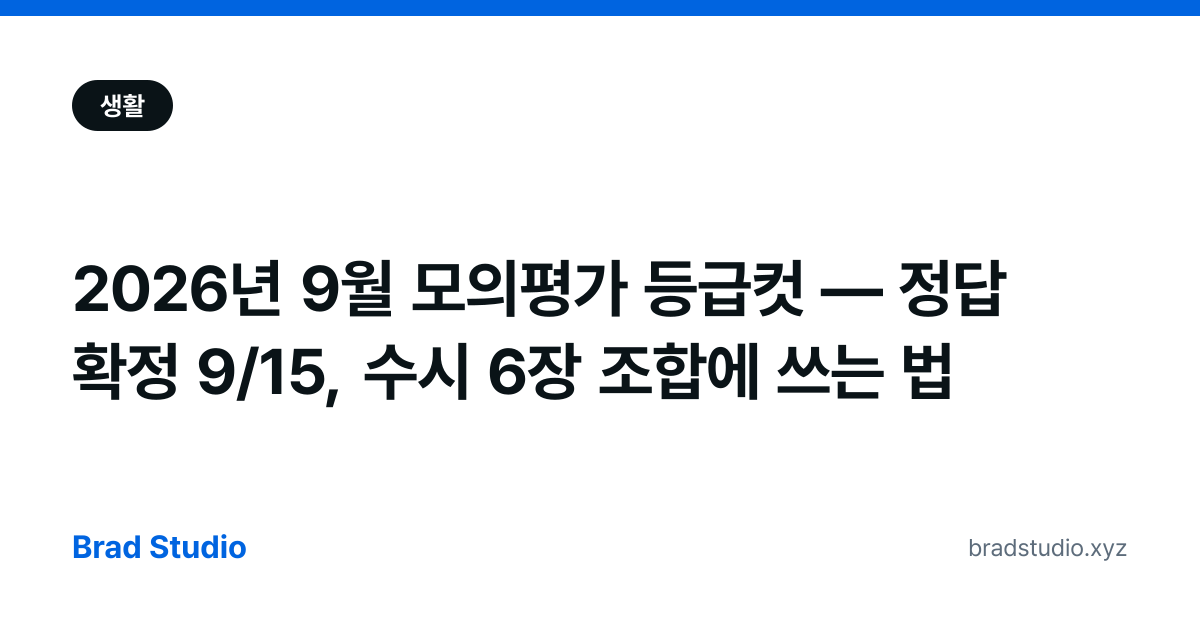
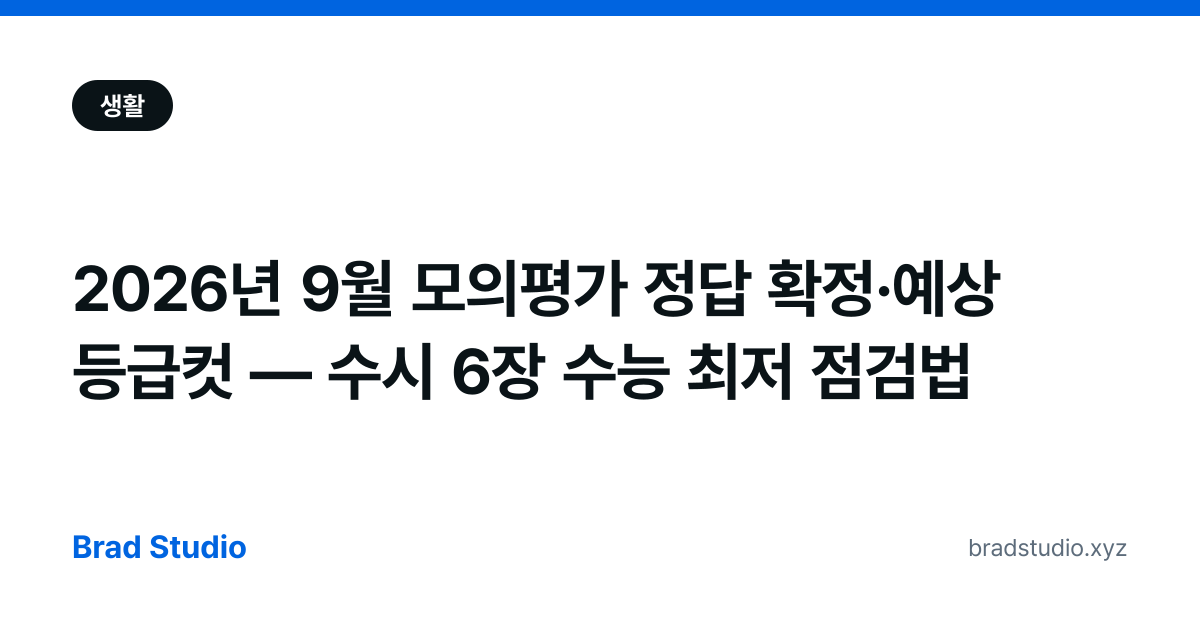
content: 9모 정답 확정·예상 등급컷 + 9월 FOMC 전망 발행
- bs-20260908-002: 정답 확정(변경 0건) 반영, 등급컷 추정치 명시, 9/29 갱신 예고
- bs-20260915-001: Warsh 의장·발표시각 KST 9/17(목) 03:00 검증, 발표 후 갱신 예고

Changed region(s): [[0.0617, 0.5429, 0.8325, 0.6333], [0.5242, 0.3921, 0.8325, 0.5127]]

diff --git a/src/content/blog/september-mock-exam-grade-cut-2026.md b/src/content/blog/september-mock-exam-grade-cut-2026.md
@@ -1,10 +1,10 @@
 ---
 contentId: "bs-20260908-002"
-title: '2026년 9월 모의평가 등급컷 — 정답 확정 9/15, 수시 6장 조합에 쓰는 법'
-description: '2027학년도 9월 모의평가 등급컷(비공식 추정치)과 9월 15일 공식 정답 확정 시간을 정리했습니다. 수시 원서 6장 수능 최저 기준을 점검하는 방법도 안내합니다.'
-pubDate: 2026-09-08
+title: '2026년 9월 모의평가 정답 확정·예상 등급컷 — 수시 6장 수능 최저 점검법'
+description: '9월 15일 평가원 이의신청 심사 완료, 정답 변경 0건으로 최종 확정됐습니다. 입시기관 채점서비스 기준 예상 등급컷(국어 1등급컷 131, 수학 130)과 수시 6장 수능 최저 점검법을 정리합니다. 확정 등급컷은 9월 29일 성적표 배부 시 공개됩니다.'
+pubDate: 2026-09-16
 
-status: draft
+status: published
 
 category: living
 tags:
@@ -25,22 +25,19 @@ cluster: 'suneung'
 clusterRole: pillar
 
 evergreen: false
-reviewAfter: 2026-11-20
+reviewAfter: 2026-09-29
 author: 'Brad Studio'
 
 sources:
-  - title: '2026 고3 9월 모의고사 등급컷 공개 — 국제뉴스'
-    url: 'https://www.gukjenews.com/news/articleView.html?idxno=3682930'
-    accessedAt: 2026-09-08
-  - title: '2026 9월 모의고사 등급컷·답지 — 위키트리'
-    url: 'https://www.wikitree.co.kr/articles/1156725'
-    accessedAt: 2026-09-08
-  - title: '9월 모의평가 문제·답·해설 — 호랭이닷컴'
-    url: 'https://horaeng.com/442/'
-    accessedAt: 2026-09-08
+  - title: '평가원 9월 모평 이의신청 심사 결과 — 파이낸셜뉴스'
+    url: 'https://www.fnnews.com/news/202609151533546405'
+    accessedAt: 2026-09-16
+  - title: '2026 9모 등급컷 분석 — 진학사'
+    url: 'https://www.jinhak.com/jh/high3/univ-entrance-info/ipsi-analysis/ipsi-strategy/100000718'
+    accessedAt: 2026-09-16
   - title: '수능 정답·성적 공식 조회 — 한국교육과정평가원'
     url: 'https://www.suneung.re.kr'
-    accessedAt: 2026-09-08
+    accessedAt: 2026-09-16
 
 internalLinks:
   - "bs-20260907-001"
@@ -51,10 +48,12 @@ monetization:
   affiliateDisclosure: false
 
 faq:
-  - question: '9월 모의평가 공식 정답은 언제 나오나요?'
-    answer: '2026년 9월 15일(화) 오후 5시에 한국교육과정평가원(suneung.re.kr)에서 확정 정답을 공개합니다. 그전까지 유포되는 등급컷과 정답은 언론·학원의 비공식 추정치입니다.'
+  - question: '9월 모의평가 공식 정답은 확정됐나요?'
+    answer: '2026년 9월 15일 평가원이 이의신청 심사(154건, 68문항 130건)를 완료했고 정답 변경은 0건입니다. 정답은 최종 확정 상태입니다.'
+  - question: '9월 모의평가 등급컷은 언제 확정되나요?'
+    answer: '입시기관 채점서비스의 예상 등급컷은 현재 공개돼 있지만 추정치입니다. 평가원 공식 확정 등급컷은 9월 29일(화) 성적표 배부 시 함께 공개됩니다.'
   - question: '9월 모의평가 등급컷을 수시에 어떻게 활용하나요?'
-    answer: '대학마다 수능 최저학력기준이 다릅니다. 9모 등급컷을 보고 내 예상 등급을 확인한 뒤, 목표 대학의 최저 충족 가능성을 따져봐야 합니다. 최저를 충족하기 어렵다면 최저 없는 전형 중심으로 6장 배분을 조정할 수 있습니다. 실제 수능(11/19)과 난이도가 다를 수 있으므로 절대적인 기준이 아닌 참고 지표로 활용하세요.'
+    answer: '대학마다 수능 최저학력기준이 다릅니다. 9모 예상 등급컷으로 내 예상 등급을 확인한 뒤, 목표 대학의 최저 충족 가능성을 따져봐야 합니다. 최저 충족이 어렵다면 최저 없는 전형 중심으로 6장 배분을 조정할 수 있습니다. 실제 수능(11/19)과 난이도가 다를 수 있으므로 절대적 기준이 아닌 참고 지표로 활용하세요.'
   - question: '영어 1등급 기준은 몇 점인가요?'
     answer: '영어는 절대평가입니다. 원점수 90점 이상이 1등급이며, 이 기준은 9월 모평과 수능 모두 동일합니다. 점수가 같아도 응시 인원 대비 비율에 따라 다른 과목 등급은 변동합니다.'
   - question: '9월 모평과 실제 수능 난이도 차이가 있나요?'
@@ -64,15 +63,21 @@ seo:
   noindex: false
 ---
 
-## 공식 정답 확정은 9월 15일 오후 5시 — 지금 수치는 추정치
+> **업데이트 안내:** 9월 29일(화) 평가원 성적표 배부 후 확정 등급컷으로 이 글을 갱신할 예정입니다.
 
-수시 원서를 이미 접수했거나 마감 9/11을 앞두고 수능 최저 충족 여부를 계산 중이라면 9월 모의평가 등급컷이 필요합니다. 핵심부터 짚겠습니다. **공식 확정 등급컷은 9월 15일(화) 오후 5시** 한국교육과정평가원(suneung.re.kr)에서 발표됩니다. 지금 나도는 숫자는 언론·학원의 비공식 추정치입니다.
+## 정답 최종 확정 — 변경 0건
 
-## 과목별 비공식 추정 등급컷 (9/15 확정 전)
+평가원은 2026년 9월 15일 이의신청 심사를 완료했습니다. 총 154건(심사 대상 68문항 130건)을 검토했고 **정답 변경은 0건**입니다. 9월 모평 정답은 최종 확정 상태입니다.
+
+공식 정답·문제 PDF는 [suneung.re.kr](https://www.suneung.re.kr)에서 무료로 다운로드할 수 있습니다.
+
+## 과목별 예상 등급컷 (입시기관 추정치 — 확정 아님)
+
+아래 수치는 진학사 등 입시기관 채점서비스 기반 추정치입니다. **평가원 공식 확정 등급컷은 9월 29일(화) 성적표 배부 시 공개**됩니다.
 
 ### 국어 (화법과 작문 기준)
 
-| 등급 | 표준점수 | 원점수(추정) |
+| 등급 | 표준점수(추정) | 원점수(추정) |
 |---|---|---|
 | 1등급 | 131점 | 90점 |
 | 2등급 | 125점 | 84점 |
@@ -82,7 +87,7 @@ seo:
 
 ### 수학 (확률과 통계 기준)
 
-| 등급 | 표준점수 | 원점수(추정) |
+| 등급 | 표준점수(추정) | 원점수(추정) |
 |---|---|---|
 | 1등급 | 130점 | 89점 |
 | 2등급 | 124점 | 81점 |
@@ -100,11 +105,11 @@ seo:
 
 올해 9월 모평 영어는 6월 모평보다 쉬웠다는 평가입니다. 1등급 비율이 높아질 가능성이 있습니다.
 
-> **주의:** 위 수치는 언론·학원에서 발표한 비공식 추정치입니다. 9월 15일 오후 5시 이전까지 공식 수치가 아닙니다.
+> **주의:** 위 수치는 입시기관 채점서비스의 비공식 추정치입니다. 확정 등급컷은 9월 29일(화) 성적표 배부 후 공개됩니다.
 
 ## 수시 6장 조합에 등급컷을 쓰는 법
 
-수시 원서 접수 기간은 [4년제 대학 기준 9/7~9/11](/blog/susi-application-2027-checklist/)입니다. 9월 모평 등급컷은 수능 최저학력기준 충족 여부를 미리 점검하는 도구입니다.
+9월 모평 예상 등급컷은 수능 최저학력기준 충족 여부를 미리 점검하는 도구입니다.
 
 **3단계 점검 방법:**
 
@@ -114,14 +119,14 @@ seo:
 
 **중요한 전제:** 9월 모평 난이도와 실수능(11월 19일)은 다릅니다. 9모에서 3등급이 나왔더라도 수능에서 2등급이 될 수 있고, 반대 경우도 흔합니다. 9모 등급은 절대 기준이 아닌 방향 지표로만 씁니다.
 
-## 공식 정답 확인 방법
+## 확정 등급컷 확인 일정
 
-| 확인 경로 | 내용 |
+| 일정 | 내용 |
 |---|---|
-| [suneung.re.kr](https://www.suneung.re.kr) | 9/15 17:00 확정 정답 공개 |
-| 평가원 홈페이지 | 문제·정답 PDF 무료 다운로드 |
-| EBS 수능 특강 사이트 | 연계 문항 확인 가능 |
+| 9월 15일 완료 | 이의신청 심사 완료, 정답 변경 0건 |
+| 9월 29일(화) | 성적표 배부 + 평가원 공식 확정 등급컷 공개 |
+| [suneung.re.kr](https://www.suneung.re.kr) | 문제·정답 PDF 무료 다운로드 |
 
 ---
 
-9월 15일 오후 5시 평가원 공식 발표 직후, [suneung.re.kr](https://www.suneung.re.kr)에서 본인 답안과 대조하세요. 확정 등급컷이 나오면 수능 최저 충족 여부를 다시 계산해 수시 전략을 최종 점검하는 순서로 움직입니다.
+9월 29일(화) 평가원이 성적표를 배부하면 공식 확정 등급컷을 이 글에 반영할 예정입니다. 예상 등급컷과 확정 등급컷 사이 차이가 있을 수 있으므로, 수시 최저 기준 최종 판단은 9월 29일 이후에 하기를 권합니다.

diff --git a/src/content/blog/september-fomc-2026.md b/src/content/blog/september-fomc-2026.md
@@ -1,11 +1,11 @@
 ---
 contentId: "bs-20260915-001"
 title: '9월 FOMC 한국시간 새벽 3시 — 시나리오 3개와 내 대출·예금 변화'
-description: '미 연준이 한국시간 9월 17일 새벽 3시에 기준금리를 결정합니다. 채권시장 인상 확률 57%와 동결 전망이 엇갈리는 지금, 시나리오별로 변동형 주담대와 예금금리가 어떻게 움직이는지 정리했습니다.'
-pubDate: 2026-09-15
-updatedDate: 2026-09-15
+description: '미 연준이 한국시간 9월 17일(목) 새벽 3시에 기준금리를 결정합니다. 결과 발표 전 작성된 예상 글입니다. CME FedWatch 기준 인상 확률과 동결 전망이 엇갈리는 상황에서, 시나리오별로 변동형 주담대와 예금금리가 어떻게 움직이는지 정리했습니다.'
+pubDate: 2026-09-16
+updatedDate: 2026-09-16
 
-status: draft
+status: published
 
 category: money
 tags:
@@ -27,25 +27,34 @@ cluster: 'money-market'
 clusterRole: supporting
 
 evergreen: false
-reviewAfter: 2026-09-18
+reviewAfter: 2026-09-17
 author: 'Brad Studio'
 
 sources:
   - title: '미국 연방준비제도 2026 FOMC 보도자료'
     url: 'https://www.federalreserve.gov/newsevents/pressreleases/2026-press-fomc.htm'
-    accessedAt: 2026-09-15
+    accessedAt: 2026-09-16
+  - title: 'Kevin Warsh sworn in as Federal Reserve chair (Spectrum News)'
+    url: 'https://spectrumlocalnews.com/us/snplus/politics/2026/05/22/kevin-warsh-sworn-in-jerome-powell-trump-white-house-ceremony-clarence-thomas'
+    accessedAt: 2026-09-16
+  - title: 'CME FedWatch FOMC September 2026 rate hike odds (Forbes)'
+    url: 'https://www.forbes.com/sites/digital-assets/2026/08/31/cme-fedwatch-provides-a-66-chance-fed-will-hike-rates-in-september/'
+    accessedAt: 2026-09-16
+  - title: '한은 연속 금리인상, 미국과 금리차 축소 (KB의 생각)'
+    url: 'https://kbthink.com/investment/fx/monthly/260827-2.html'
+    accessedAt: 2026-09-16
   - title: '9월 FOMC 금리 인상 vs 동결 전망 (뉴시스)'
     url: 'https://www.newsis.com/view/NISX20260901_0003770624'
-    accessedAt: 2026-09-15
+    accessedAt: 2026-09-16
   - title: '금리 인상 군불 뗀 美 연준, 9월 FOMC에서 트럼프와 충돌? (파이낸셜뉴스)'
     url: 'https://www.fnnews.com/news/202608301309591030'
-    accessedAt: 2026-09-15
+    accessedAt: 2026-09-16
   - title: '미국 기준금리 인상이 국내 금리에 미치는 영향 (KDI 경제교육정보센터)'
     url: 'https://eiec.kdi.re.kr/policy/domesticView.do?ac=0000132478'
-    accessedAt: 2026-09-15
+    accessedAt: 2026-09-16
   - title: '2026 FOMC 일정 및 한국시간 기준 (kbthink.com)'
     url: 'https://kbthink.com/us-economy.html'
-    accessedAt: 2026-09-15
+    accessedAt: 2026-09-16
 
 internalLinks:
   - "bs-20260911-001"
@@ -57,7 +66,7 @@ monetization:
 
 faq:
   - question: '9월 FOMC 결과는 한국시간 몇 시에 나오나요?'
-    answer: '미국 현지시간 9월 16일 오후 2시(ET) 발표입니다. 한국시간으로는 9월 17일(수) 새벽 3시입니다. 제롬 파월 의장 기자회견은 새벽 3시 30분에 시작됩니다.'
+    answer: '미국 현지시간 9월 16일 오후 2시(ET) 발표입니다. 한국시간으로는 9월 17일(목) 새벽 3시입니다. Kevin Warsh 의장 기자회견은 새벽 3시 30분에 시작됩니다.'
   - question: '연준이 금리를 올리면 한국 주담대에 바로 오르나요?'
     answer: '즉각적인 연동은 아닙니다. 미국 금리 인상이 한미 금리차를 벌려 한국은행의 추가 인상 유인이 생기고, 한은이 움직이면 COFIX(코픽스)와 CD금리를 통해 변동형 주담대 금리에 반영됩니다. 실제 인상분이 고지서에 반영되기까지 1~2개월 시차가 있는 경우가 많습니다.'
   - question: '동결과 인상 중 어떤 결정이 예금금리에 유리한가요?'
@@ -69,9 +78,11 @@ seo:
   noindex: false
 ---
 
-## 발표 시각부터: 한국시간 9월 17일 새벽 3시
+> **이 글은 2026년 9월 16일 기준, FOMC 결과 발표 전에 작성된 예상 분석입니다.** 결과 발표(한국시간 9월 17일 새벽 3시) 이후 내용을 갱신할 예정입니다.
 
-미국 연방공개시장위원회(FOMC)가 현지시간 9월 15~16일 이틀간 정례회의를 열고, **현지시간 9월 16일 오후 2시(ET) — 한국시간 9월 17일 새벽 3시**에 기준금리를 공표합니다. 제롬 파월 의장의 기자회견은 새벽 3시 30분에 시작됩니다.
+## 발표 시각부터: 한국시간 9월 17일(목) 새벽 3시
+
+미국 연방공개시장위원회(FOMC)가 현지시간 9월 15~16일 이틀간 정례회의를 열고, **현지시간 9월 16일(수) 오후 2시(ET) — 한국시간 9월 17일(목) 새벽 3시**에 기준금리를 공표합니다. Kevin Warsh 의장의 기자회견은 새벽 3시 30분에 시작됩니다. 이번 회의에서는 경제전망요약(SEP)과 점도표도 함께 공개됩니다.
 
 연준의 현재 기준금리 목표 범위는 **3.50~3.75%**입니다. 7월 FOMC에서 이 범위를 동결한 뒤 이번이 첫 번째 결정 기회입니다.
 
@@ -79,7 +90,7 @@ seo:
 
 ## 시나리오 3개와 각각의 의미
 
-CME FedWatch 기준 9월 15일 현재 **25bp(0.25%p) 인상 확률은 약 57%**, 동결은 약 43%입니다. 두 전망이 엇갈리는 상황입니다.
+CME FedWatch 기준 9월 16일 현재 **25bp(0.25%p) 인상 확률은 약 57%**, 동결은 약 43%입니다(9월 16일 기준, 소스별 56~66% 범위). 두 전망이 엇갈리는 상황입니다.
 
 | 시나리오 | 연준 금리 | 시장 반응 예상 | 한국 영향 예상 |
 |---|---|---|---|
@@ -117,7 +128,7 @@ CME FedWatch 기준 9월 15일 현재 **25bp(0.25%p) 인상 확률은 약 57%**,
 | 시각 (한국시간) | 내용 |
 |---|---|
 | 9/17 새벽 3:00 | 연준 금리 결정 공표 (federalreserve.gov) |
-| 9/17 새벽 3:30 | 파월 의장 기자회견 시작 |
+| 9/17 새벽 3:30 | Warsh 의장 기자회견 시작 |
 | 9/17 오전 | 국내 주요 증권사 리포트 배포 예상 |
 | 10월 한은 통방위 | 한국 기준금리 추가 결정 여부 |
 
@@ -130,3 +141,7 @@ CME FedWatch 기준 9월 15일 현재 **25bp(0.25%p) 인상 확률은 약 57%**,
 발표 시각은 9월 17일 새벽 3시, 인상 57% vs 동결 43% — 결과를 예단하기보다 시나리오별로 대응을 준비해두는 쪽이 현실적입니다.
 
 변동형 대출이 있다면 계약서에서 금리 조정 주기와 기준지표를 확인하고, 갱신 시기가 11월 이후라면 이번 결정이 직접 반영될 수 있습니다. 고정금리 전환을 고려 중이라면 거래 은행의 조건을 먼저 확인하세요. 금융 상품의 세부 이율은 가입 조건과 개별 약정마다 다르므로, 구체적인 결정은 전문 금융기관에 문의하시기 바랍니다.
+
+---
+
+*이 글은 2026년 9월 16일 기준, 결과 발표 전에 작성됐습니다. 9월 17일(목) 새벽 3시 결과 발표 이후 실제 결정 내용과 시장 반응을 반영해 갱신할 예정입니다.*
